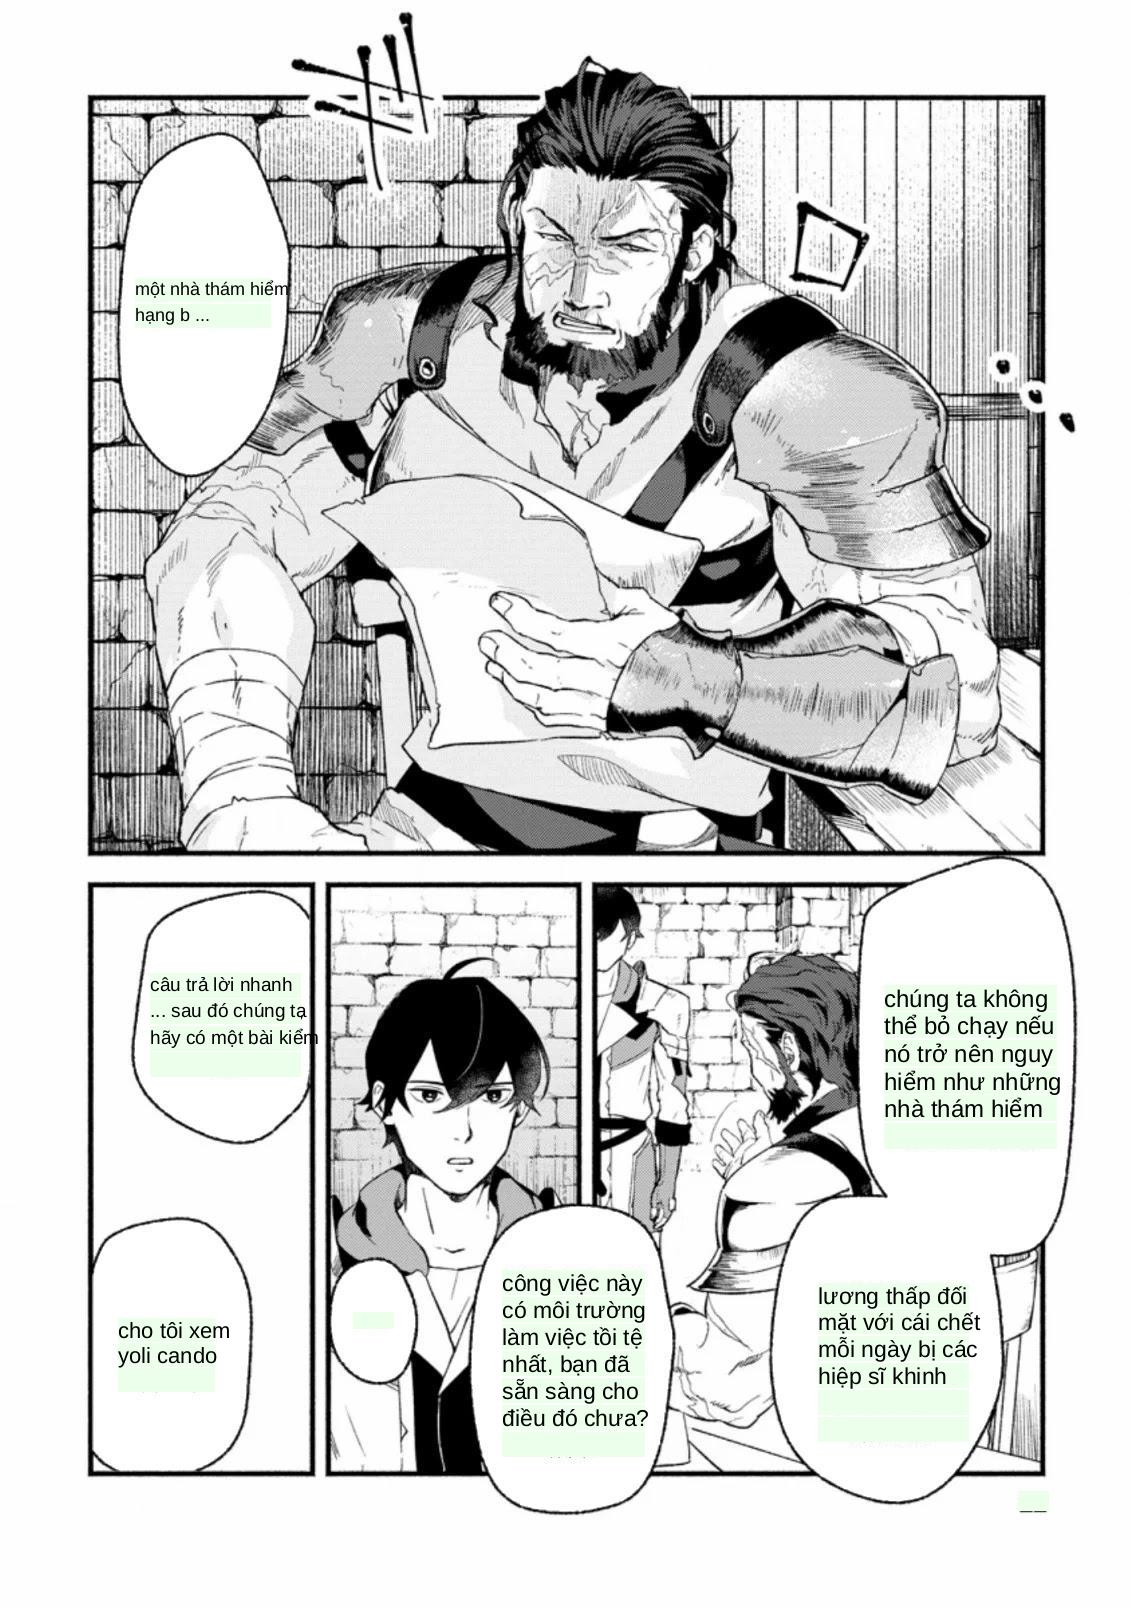
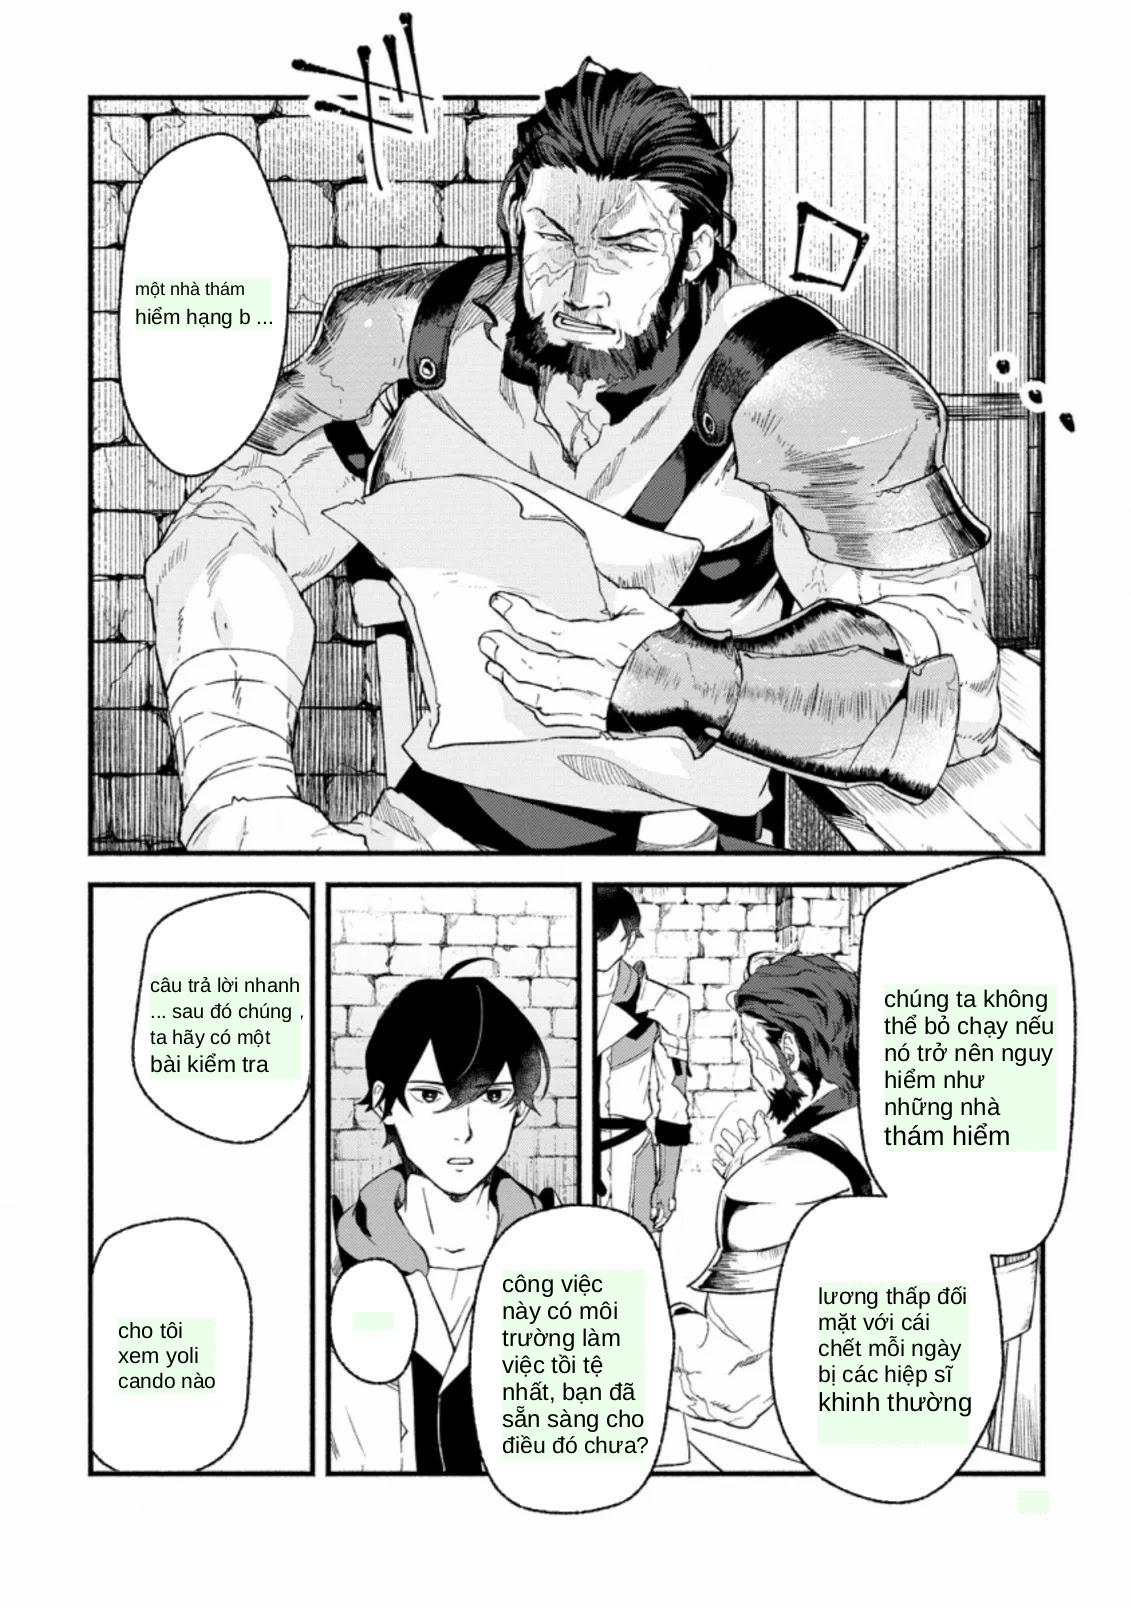
update endline

diff --git a/imagetrans.py b/imagetrans.py
@@ -61,17 +61,20 @@ class Paragraph:
         text = ''
         for line in self.lines:
             text += line.text + ' '
+        # print(text)
+        # print("========================================================")
         self.text = googletrans.Translator().translate(text.lower(), dest='vi').text
         
     def draw(self, img):
-        fontSize = (self.eY - self.y) * 0.95 / self.lineAmount
+        fontSize = (self.eY - self.y)  / self.lineAmount
         lineHeight = (self.eY - self.y)/self.lineAmount
+        self.h = abs(int(self.y - self.lines[-1].enPoint[1]))
         self.lineHeight = lineHeight
 
-        bg = Image.new(mode="RGBA", size=(abs(int(self.w)), abs(int(self.y - self.lines[-1].stPoint[1]))), color=(235, 255, 235))
+        bg = Image.new(mode="RGBA", size=(abs(int(self.w)), abs(int(self.y - self.lines[-1].enPoint[1]))), color=(235, 255, 235))
         img.paste(bg, (int(self.x), int(self.y)))  
-
-        self.insertText(self.getFontSize(fontSize), img)
+        fontsize = self.getNFontSize();
+        self.insertText(fontsize, img)
     
     def getFontSize(self, nFontSize):
         fontsize = abs(int(nFontSize))
@@ -79,27 +82,64 @@ class Paragraph:
         while font.getsize(self.text)[0] > self.w * self.lineAmount:
             fontsize -= 2
             font = ImageFont.truetype(r'font/Arimo-VariableFont_wght.ttf', fontsize)
+
         return fontsize
+
+    def getNFontSize(self):
+
+        fontsize = abs(int(self.h))
+        lineAmount = 1
+        font = ImageFont.truetype(r'font/Arimo-VariableFont_wght.ttf', fontsize)
+
+        while font.getsize(self.text)[0] > self.w * lineAmount:
+            fontsize -= 2
+            font = ImageFont.truetype(r'font/Arimo-VariableFont_wght.ttf', fontsize)
+            lineAmount = int(self.h/fontsize)
+            # print( "fontsize: ", fontsize, " line amount: ", lineAmount ," Text size: ", font.getsize(self.text)[0], " Width: ", self.w * lineAmount)
+        self.lineAmount = lineAmount
+        self.lineHeight = int(self.h/lineAmount)
+        return fontsize
+
 
     def insertText(self, fontSize, img):
         pos = 0
         words = self.text.split()
         d = ImageDraw.Draw(img)
+        # print("Line amount: ", self.lineAmount)
+        # print("Height: ", self.h)
+        # print("Width: ", self.w)
+        # print(self.text)
+
         for i in range(self.lineAmount):
             font = ImageFont.truetype(r'font/Arimo-VariableFont_wght.ttf', fontSize-2)
             textInLine = words[pos]
             for j in range(pos + 1,len(words)):
-                if font.getsize(textInLine + ' ' + words[j])[0] <= self.w + font.getsize(words[j])[0]/2 :
-                    textInLine +=  ' ' + words[j]
-                else:
-                    d.text((int(self.x), int(self.y + i * self.lineHeight) ), textInLine, font=font, fill=(0, 0, 0))
-                    pos = j
-                    break
                 if j==len(words)-1:
+                    # print(textInLine)
+                    textInLine +=  ' ' + words[j]
+                    # print(i, " : ", textInLine)
+                    tF = fontSize
+                    while font.getsize(textInLine)[0] > self.w:
+                        tF -= 2
+                        font = ImageFont.truetype(r'font/Arimo-VariableFont_wght.ttf', tF)
+                    font = ImageFont.truetype(r'font/Arimo-VariableFont_wght.ttf', tF+1)
                     d.text((int(self.x), int(self.y + i * self.lineHeight) ), textInLine, font=font, fill=(0, 0, 0))
+                    # print('-----------------------------E-------------------------------')
                     pos = j
                     return
-
+                if font.getsize(textInLine + ' ' + words[j])[0] <= self.w :
+                    textInLine +=  ' ' + words[j]
+                else:
+                    # textInLine +=  ' ' + words[j]
+                    # print(i, " : ", textInLine)
+                    d.text((int(self.x), int(self.y + i * self.lineHeight) ), textInLine, font=font, fill=(0, 0, 0))
+                    # print(textInLine)
+                    # print('------------------------------------------------------------')
+                    pos = j
+                    break
+            # print(pos+1)
+            # print(i, " : ")
+        # print('=====================================================')
 ocr = PaddleOCR(use_angle_cls=True, lang='en', show_log = False) 
 
 def translate(imgPath, savePath):
@@ -138,19 +178,19 @@ def translate(imgPath, savePath):
 
 
 
-# translate('images/1.jpg', 'output/1.jpg')
-# translate('images/2.jpg', 'output/2.jpg')
-# translate('images/3.jpg', 'output/3.jpg')
-# translate('images/4.jpg', 'output/4.jpg')
-# translate('images/5.jpg', 'output/5.jpg')
-# translate('images/6.jpg', 'output/6.jpg')
-# translate('images/7.jpg', 'output/7.jpg')
-# translate('images/8.jpg', 'output/8.jpg')
-# translate('images/9.jpg', 'output/9.jpg')
-# translate('images/10.jpg', 'output/10.jpg')
+translate('images/1.jpg', 'output/1.jpg')
+translate('images/2.jpg', 'output/2.jpg')
+translate('images/3.jpg', 'output/3.jpg')
+translate('images/4.jpg', 'output/4.jpg')
+translate('images/5.jpg', 'output/5.jpg')
+translate('images/6.jpg', 'output/6.jpg')
+translate('images/7.jpg', 'output/7.jpg')
+translate('images/8.jpg', 'output/8.jpg')
+translate('images/9.jpg', 'output/9.jpg')
+translate('images/10.jpg', 'output/10.jpg')
 translate('images/11.jpg', 'output/11.jpg')
-# translate('images/12.jpg', 'output/12.jpg')
-# translate('images/13.jpg', 'output/13.jpg')
-# translate('images/14.jpg', 'output/14.jpg')
-# translate('images/15.jpg', 'output/15.jpg')
-# translate('images/16.jpg', 'output/16.jpg')
+translate('images/12.jpg', 'output/12.jpg')
+translate('images/13.jpg', 'output/13.jpg')
+translate('images/14.jpg', 'output/14.jpg')
+translate('images/15.jpg', 'output/15.jpg')
+translate('images/16.jpg', 'output/16.jpg')
